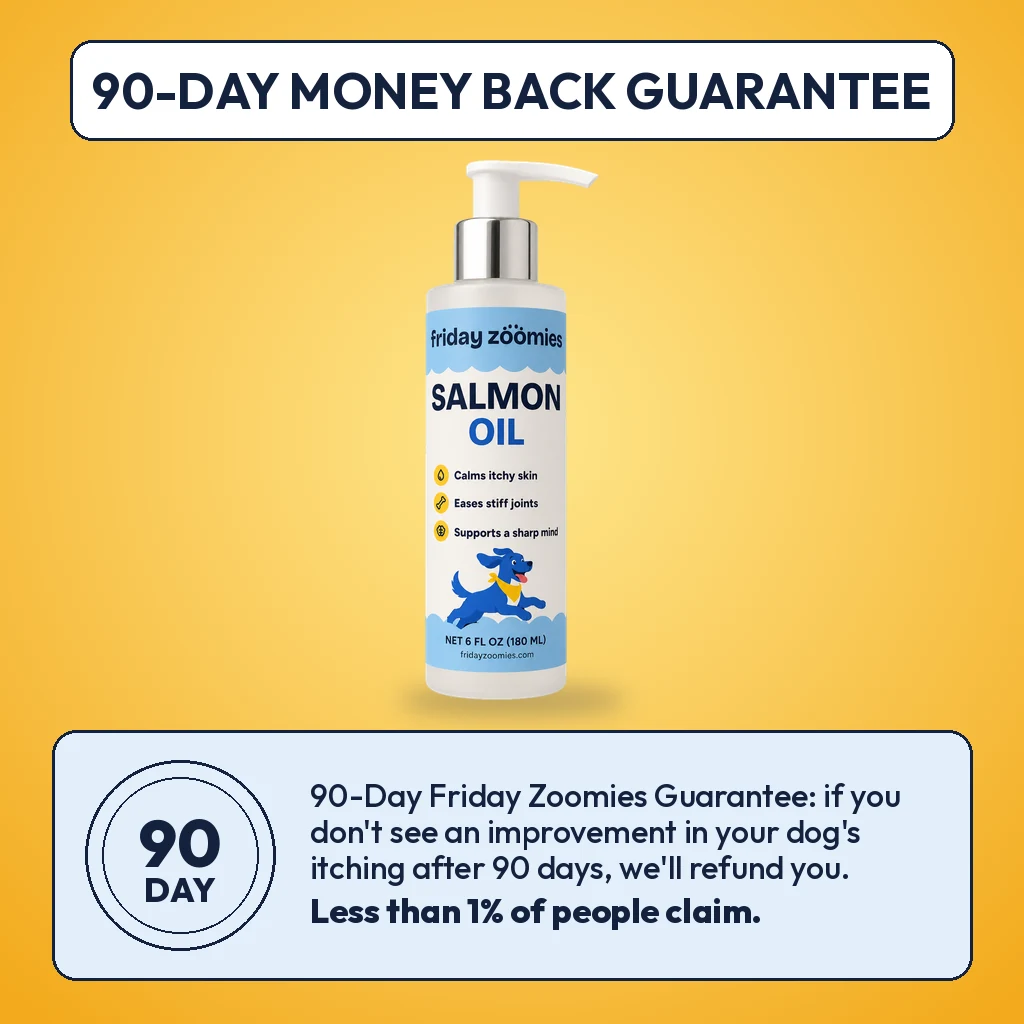
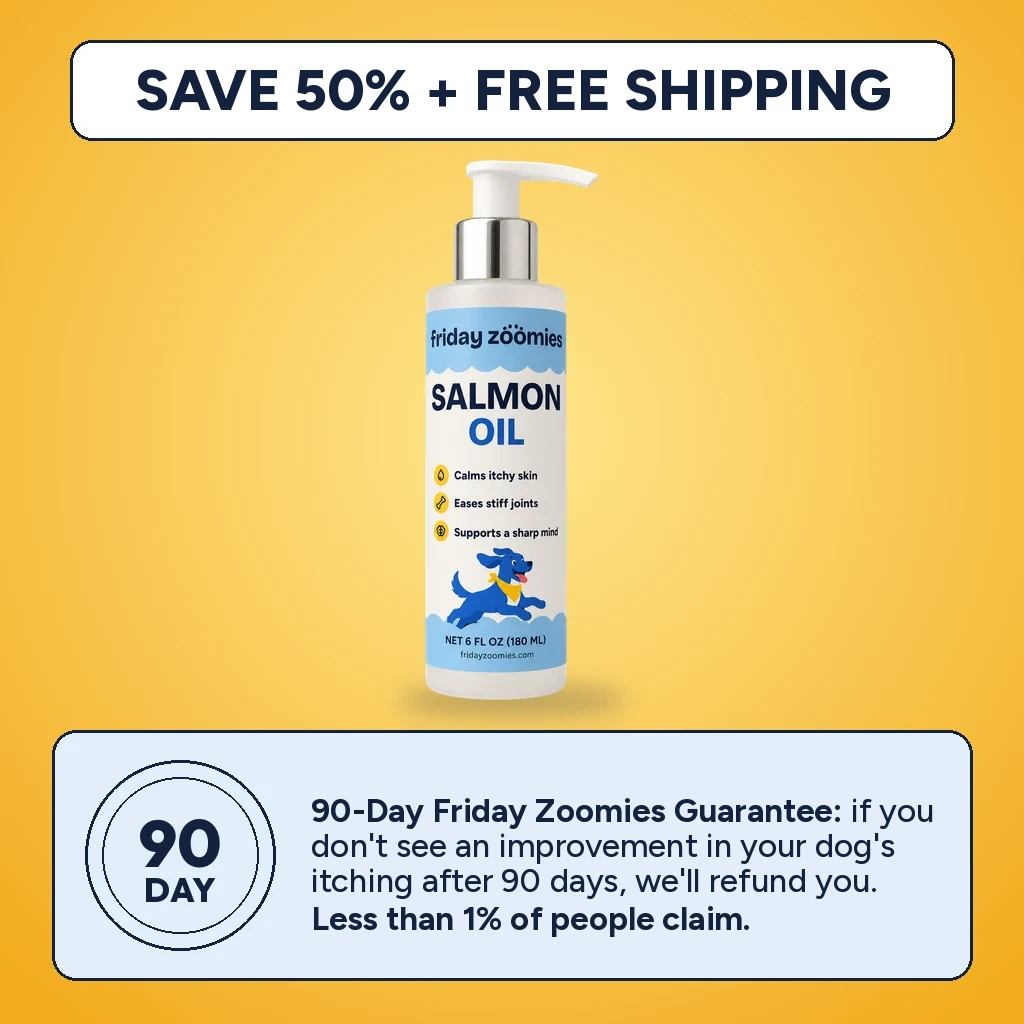
plans v2: first carousel image leads with save 50% + free shipping, guarantee lead-in in bold

Changed region(s): [[0.2812, 0.75, 0.9062, 0.9062], [0.0938, 0.0625, 0.9062, 0.125]]

diff --git a/components/itch-quiz/FridayZoomiesPdpV2.tsx b/components/itch-quiz/FridayZoomiesPdpV2.tsx
@@ -15,7 +15,7 @@ import styles from "./fz-pdp-v2.module.css";
 const DIR = "/quiz/fridayzoomies";
 
 const IMAGES = [
-  { src: `${DIR}/pdp-v2/guarantee.webp`, alt: "90-day money back guarantee on the Friday Zoomies salmon oil" },
+  { src: `${DIR}/pdp-v2/guarantee.webp`, alt: "Save 50% plus free shipping on the Friday Zoomies salmon oil, backed by a 90-day Friday Zoomies Guarantee" },
   { src: `${DIR}/pdp-v2/day-1-day-90.webp`, alt: "Day 1 raw and red paw next to a day 90 soft and shiny paw, with the salmon oil bottle between them" },
   { src: `${DIR}/pdp-v2/targeted-relief.webp`, alt: "Gentle, targeted relief in every pump: salmon oil, DHA and EPA, and mixed tocopherols" },
   { src: `${DIR}/pdp-v2/never-just-an-itch.webp`, alt: "It's never just an itch: obsessive paw licking, head shaking, 3AM scratching, raw red patches and stiff slow mornings" },
